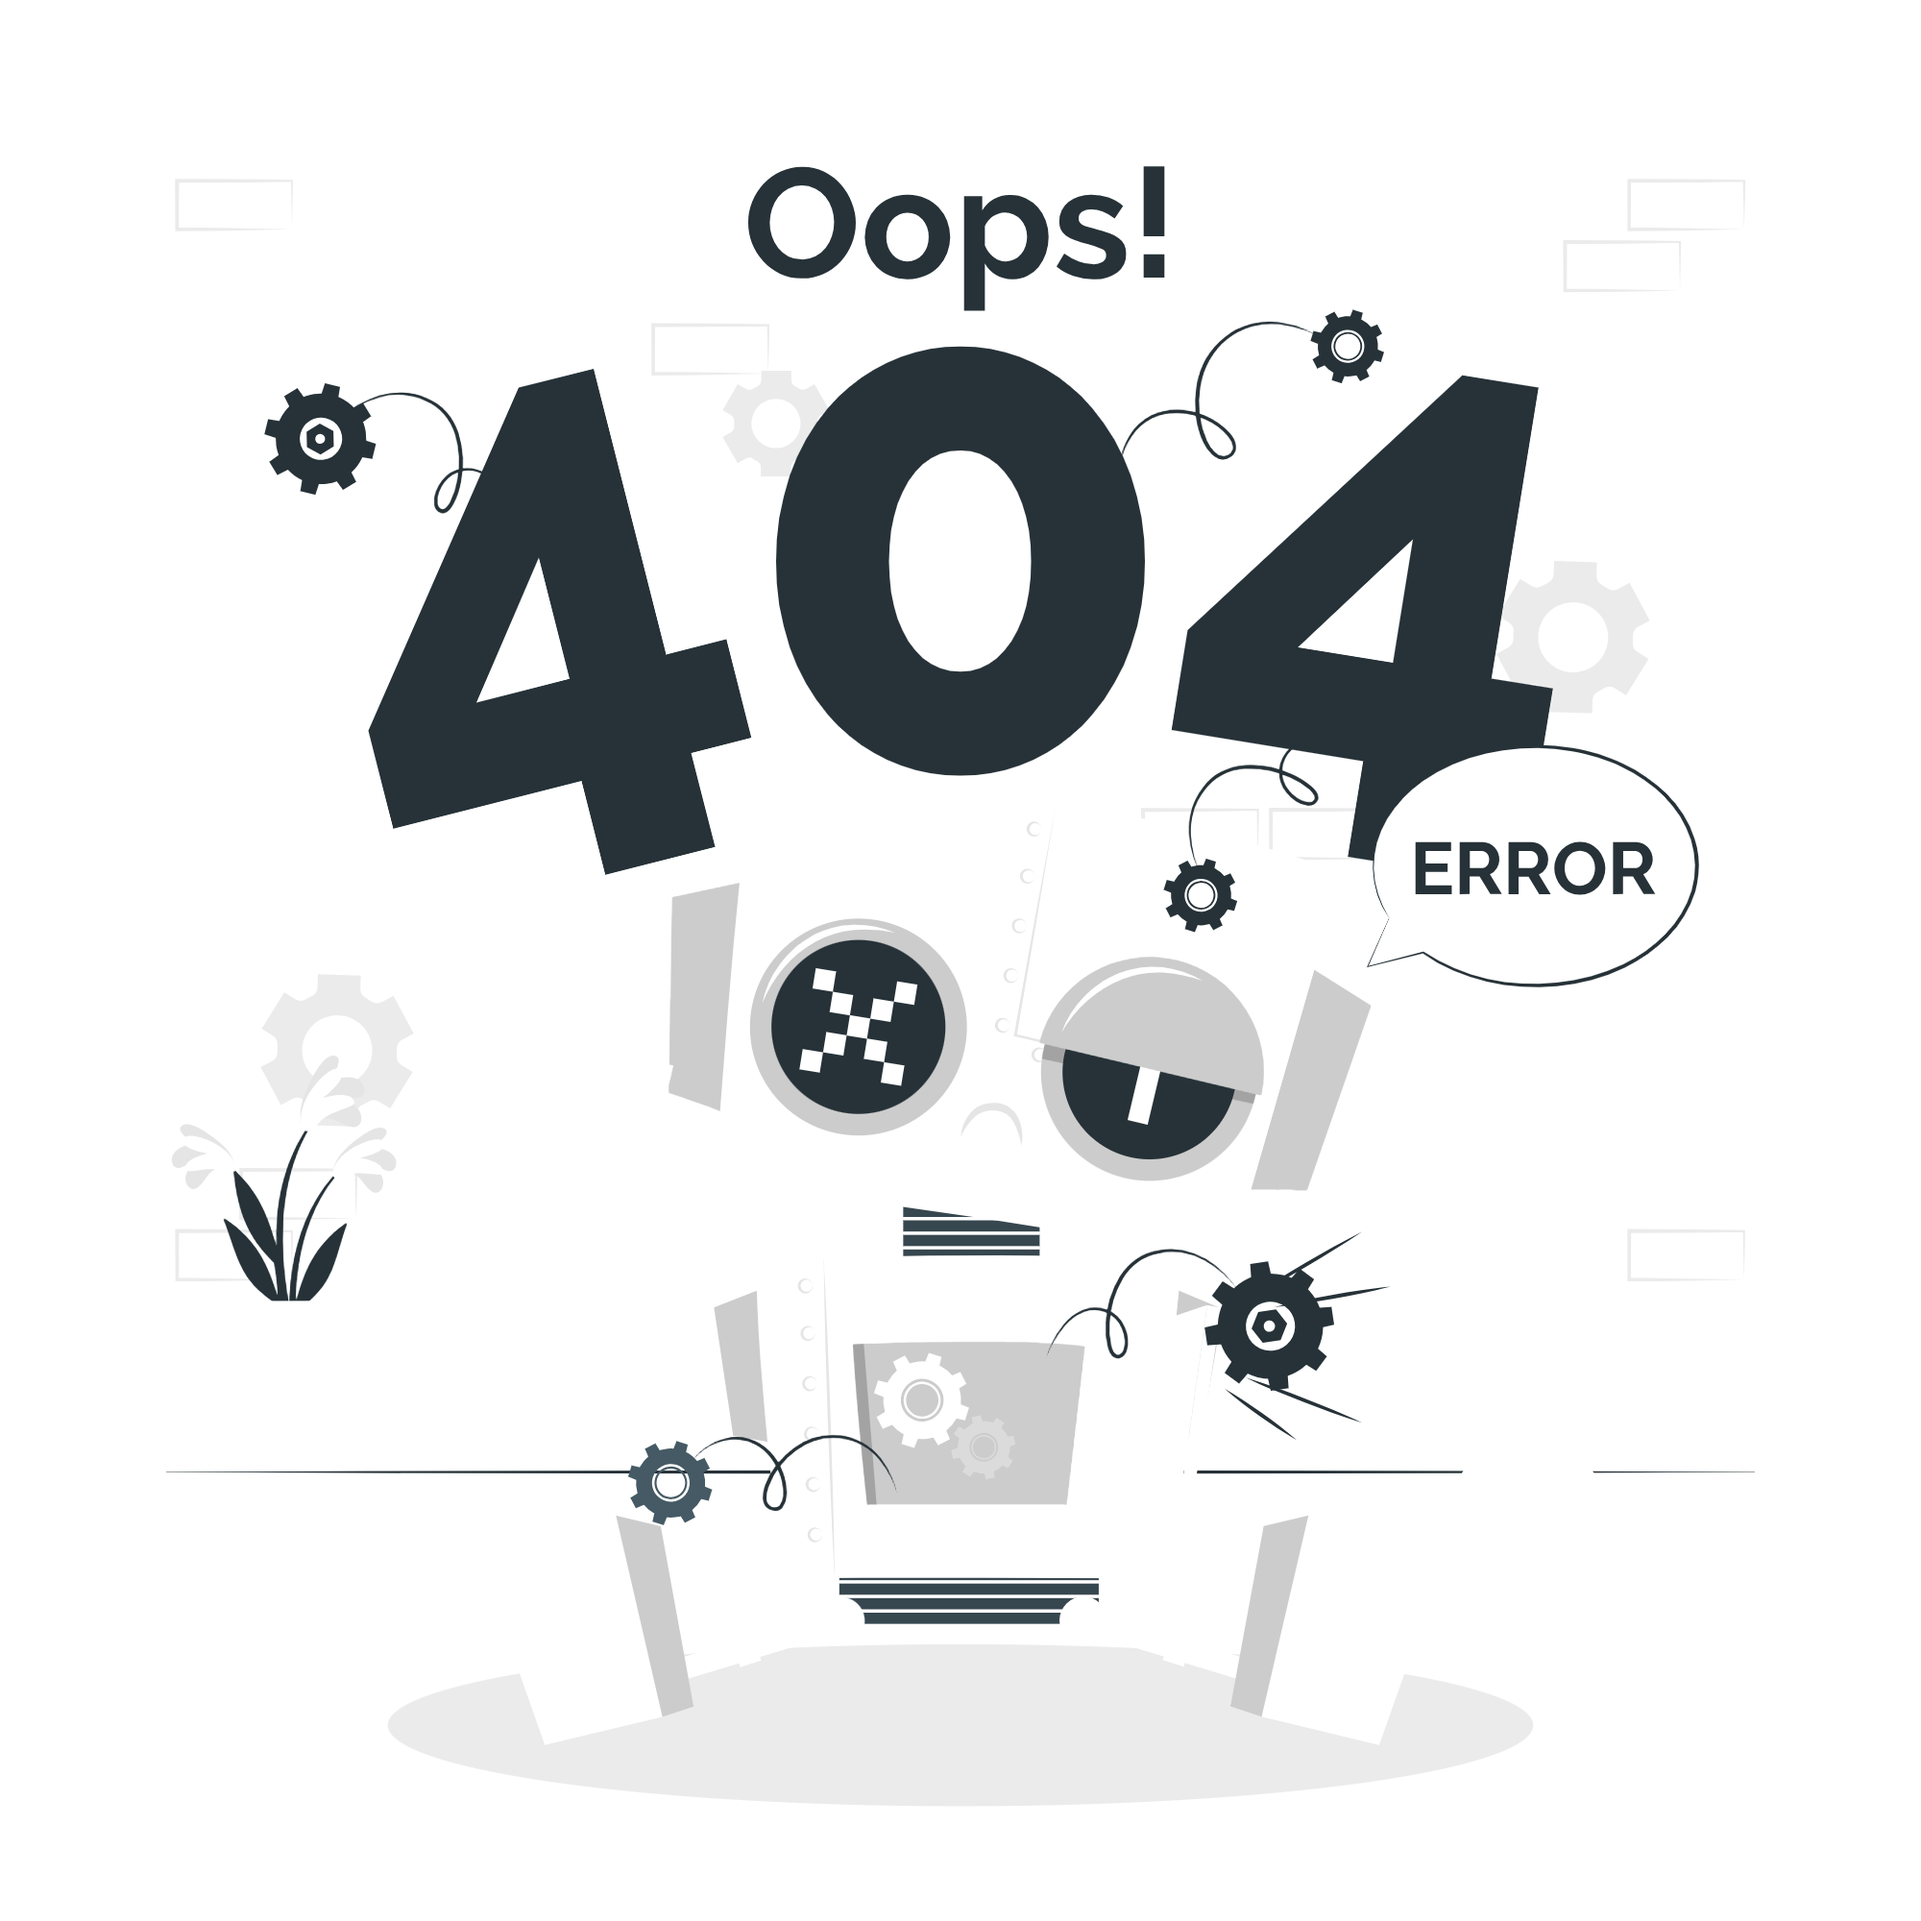
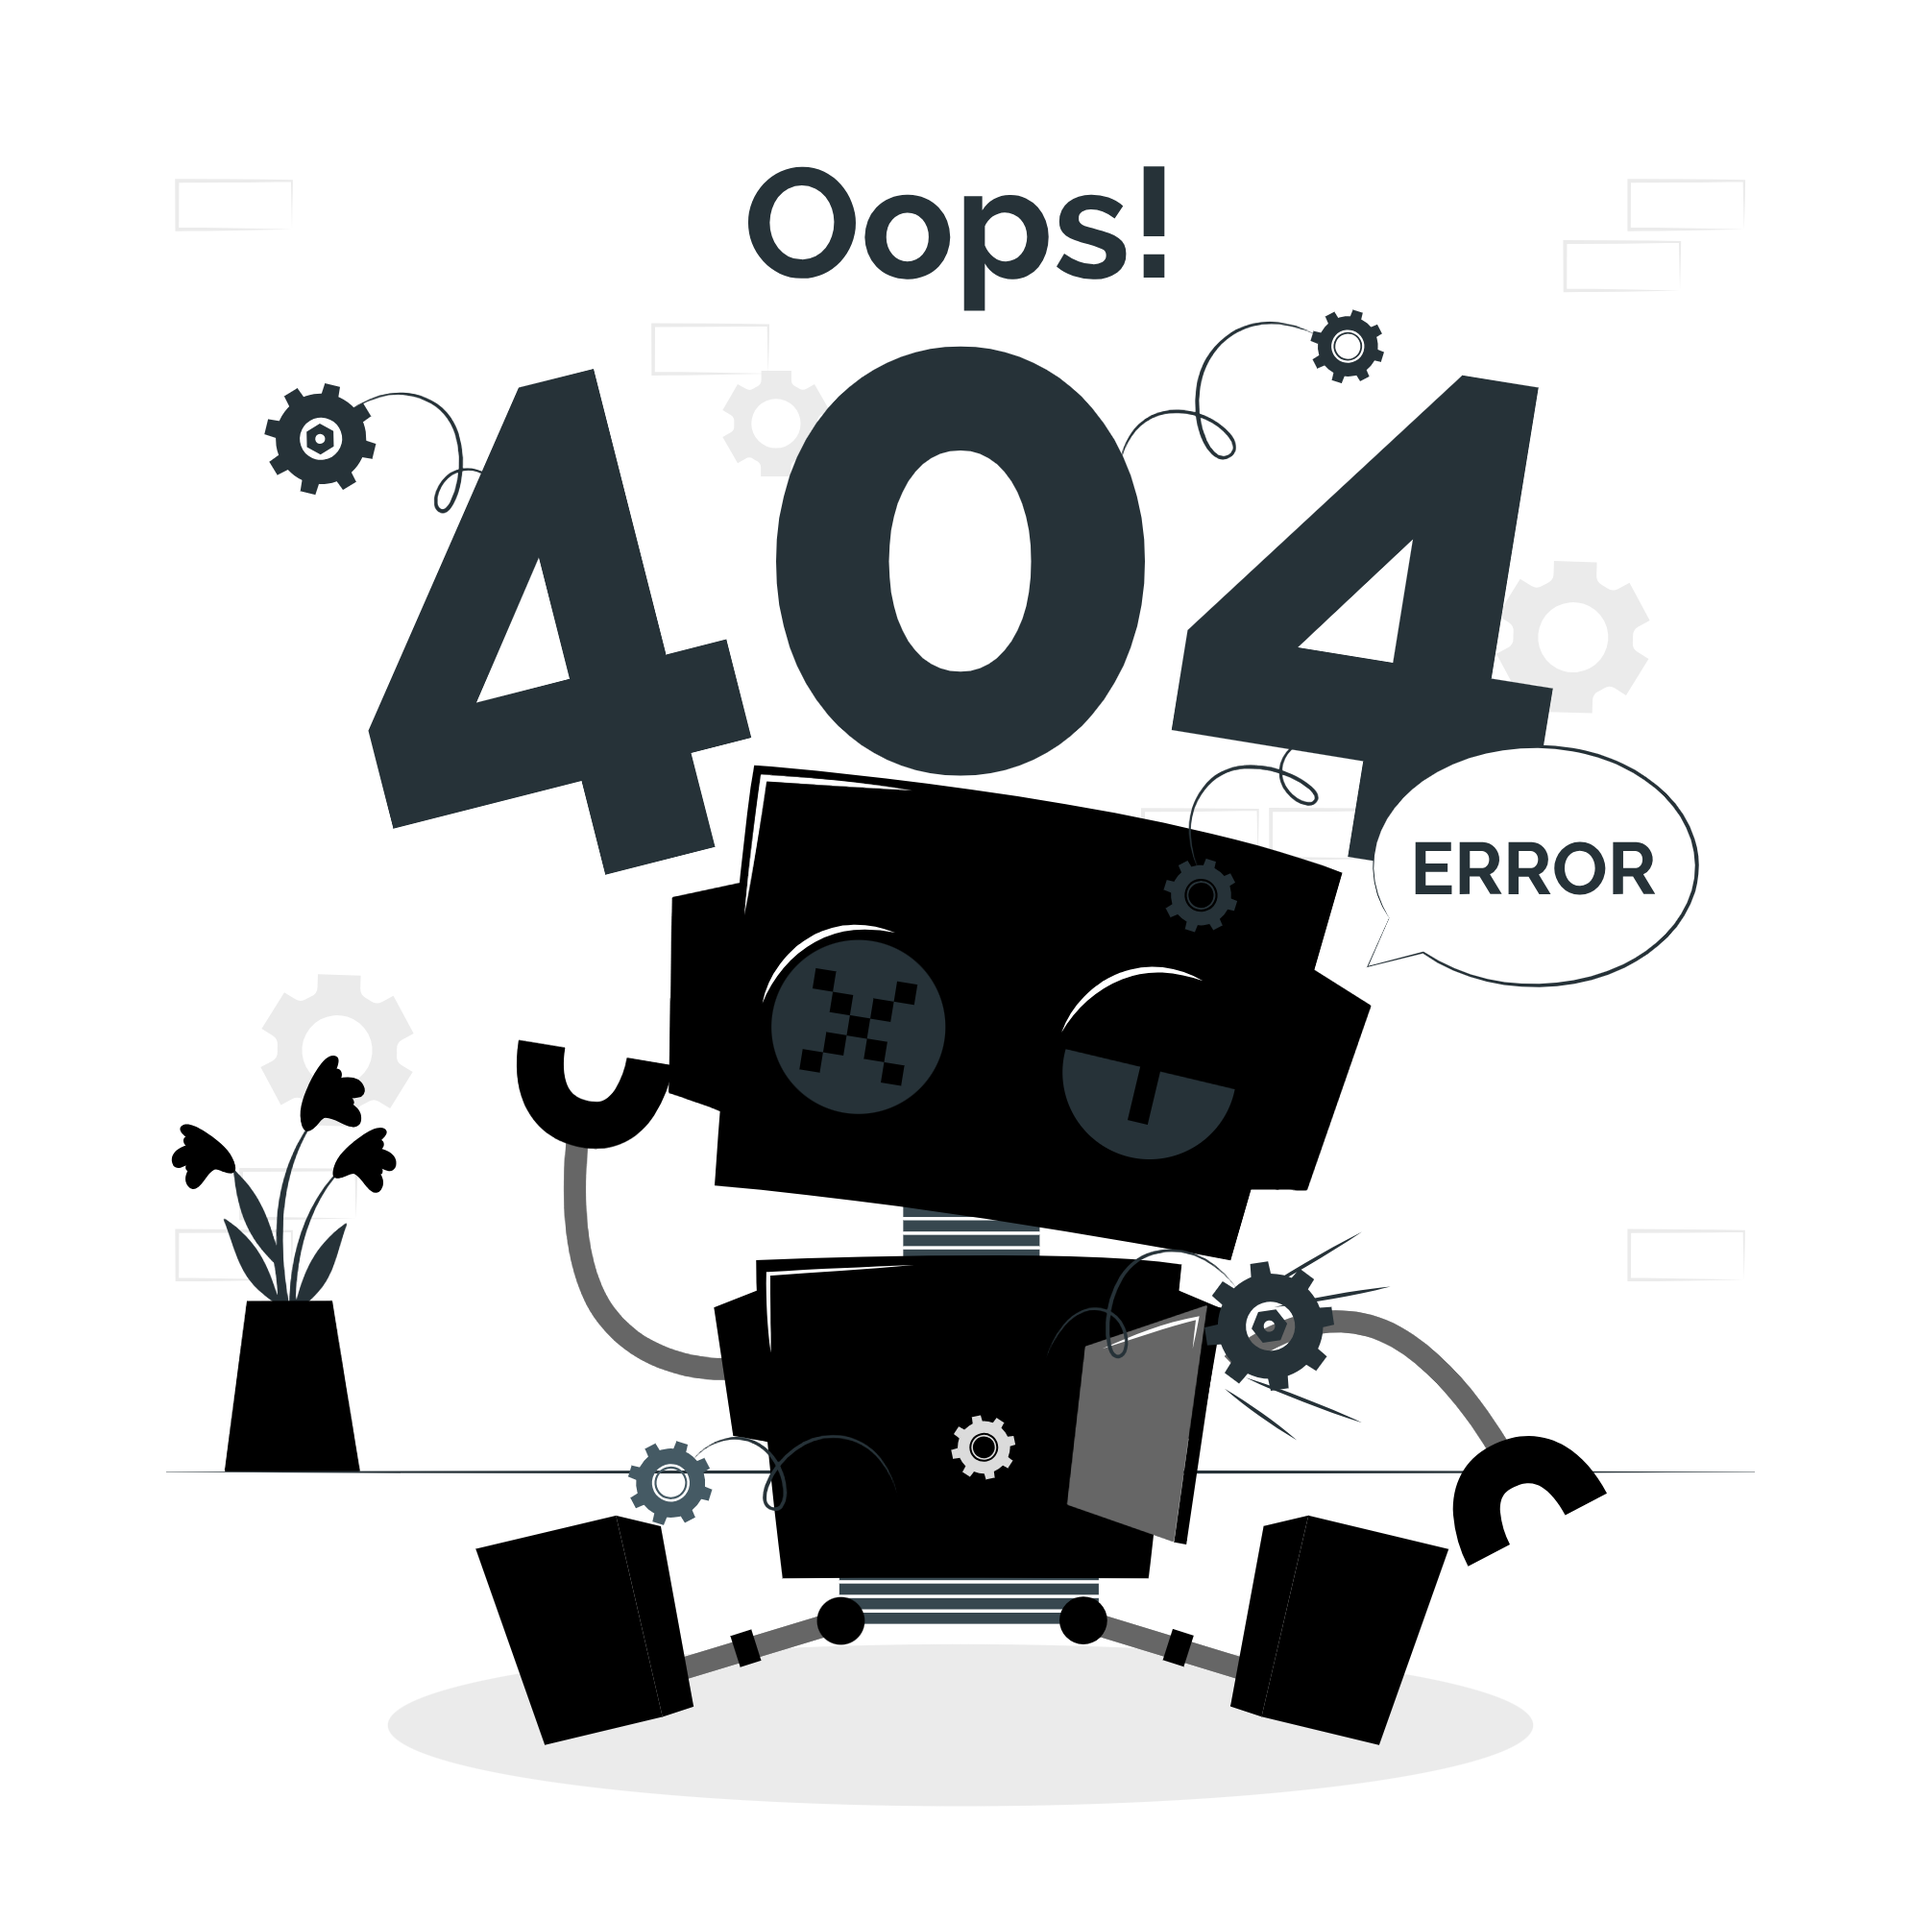
Create dev 2

diff --git a/novacraft/public/assets/css/style.css b/novacraft/public/assets/css/style.css
@@ -570,6 +570,50 @@ video {
   height: 100%;
 }
 
+.h-\[screen\] {
+  height: screen;
+}
+
+.h-\[90\] {
+  height: 90;
+}
+
+.h-\[90\%\] {
+  height: 90%;
+}
+
+.h-\[\] {
+  height: ;
+}
+
+.h-\[10\] {
+  height: 10;
+}
+
+.h-\[5\%\] {
+  height: 5%;
+}
+
+.h-12 {
+  height: 3rem;
+}
+
+.h-24 {
+  height: 6rem;
+}
+
+.h-\[80\%\] {
+  height: 80%;
+}
+
+.h-\[15\%\] {
+  height: 15%;
+}
+
+.h-\[10\%\] {
+  height: 10%;
+}
+
 .w-1\/3 {
   width: 33.333333%;
 }
@@ -584,6 +628,14 @@ video {
 
 .w-1\/2 {
   width: 50%;
+}
+
+.w-1 {
+  width: 0.25rem;
+}
+
+.w-1\/5 {
+  width: 20%;
 }
 
 .items-center {

diff --git a/novacraft/src/templates/layout.php b/novacraft/src/templates/layout.php
@@ -7,11 +7,11 @@
     <title><?php echo ucfirst($page); ?></title>
     <link href="https://fonts.googleapis.com/css2?family=BBH+Sans+Hegarty&family=Hanken+Grotesk:ital,wght@0,100..900;1,100..900&family=Montserrat:ital,wght@0,100..900;1,100..900&family=Pixelify+Sans:wght@400..700&family=Plus+Jakarta+Sans:ital,wght@0,200..800;1,200..800&family=Press+Start+2P&family=Quicksand:wght@300..700&display=swap" rel="stylesheet">
 </head>
-<body>
+<body class="h-screen">
     <?php
     include 'header.php';
     ?>
-    <main>
+    <main class="h-[80%] flex justify-center items-center">
         <?php
         include $srcpage;
         ?>

diff --git a/novacraft/src/pages/404.php b/novacraft/src/pages/404.php
@@ -1,14 +1,3 @@
-<!DOCTYPE html>
-<html lang="en">
-<head>
-    <meta charset="UTF-8">
-    <meta name="viewport" content="width=device-width, initial-scale=1.0">
-    <link href="/assets/css/style.css" rel="stylesheet">
-    <title>NovaCraft</title>
-</head>
-<body>
-    <div class="w-screen h-screen flex justify-center items-center">
-        <img class="w-1/3" src="/assets/img/404.png" alt="">
-    </div>
-</body>
-</html>
+<div class="w-screen flex justify-center items-center">
+    <img class="w-1/5" src="/assets/img/404.png" alt="">
+</div>

diff --git a/novacraft/src/templates/header.php b/novacraft/src/templates/header.php
@@ -1,4 +1,4 @@
-<header class="w-full h-32 flex items-center justify-between bg-black px-10">
+<header class="w-full h-[10%] flex items-center justify-between bg-black px-10">
     <h1 class="font-inter font-bold text-4xl text-white">NovaCraft</h1>
     <div class="w-1/2 h-full flex justify-around items-center">
         <a class="font-inter font-bold text-xl text-white" href="?page=home">Home</a>

diff --git a/novacraft/src/templates/footer.php b/novacraft/src/templates/footer.php
@@ -1,3 +1,3 @@
-<footer class="w-full h-32 flex justify-center items-center bg-black">
+<footer class="w-full h-[10%] flex justify-center items-center bg-black">
     <p class="font-inter font-bold text-2xl text-white">Houssam YK</p>
 </footer>
